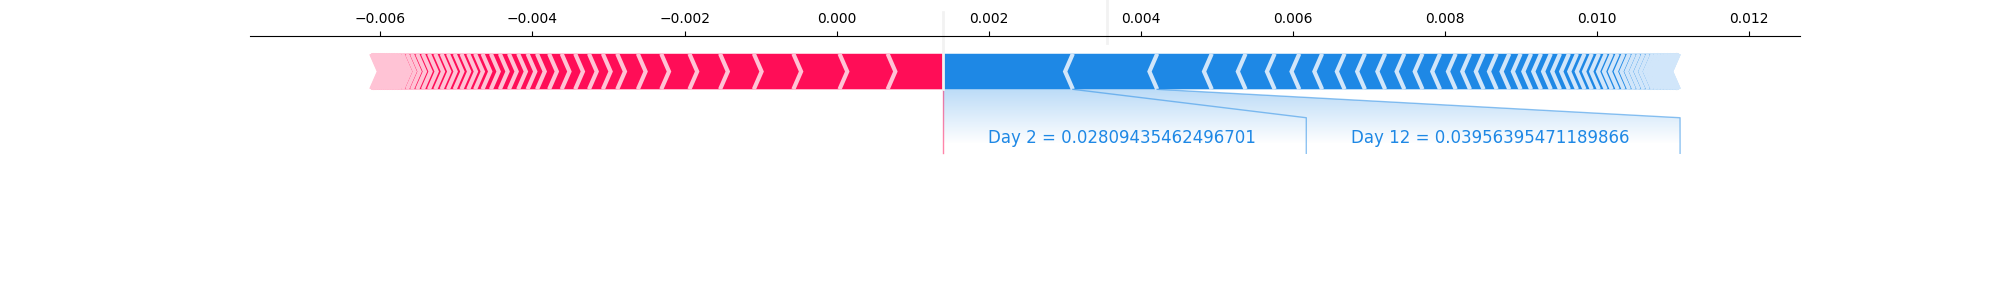
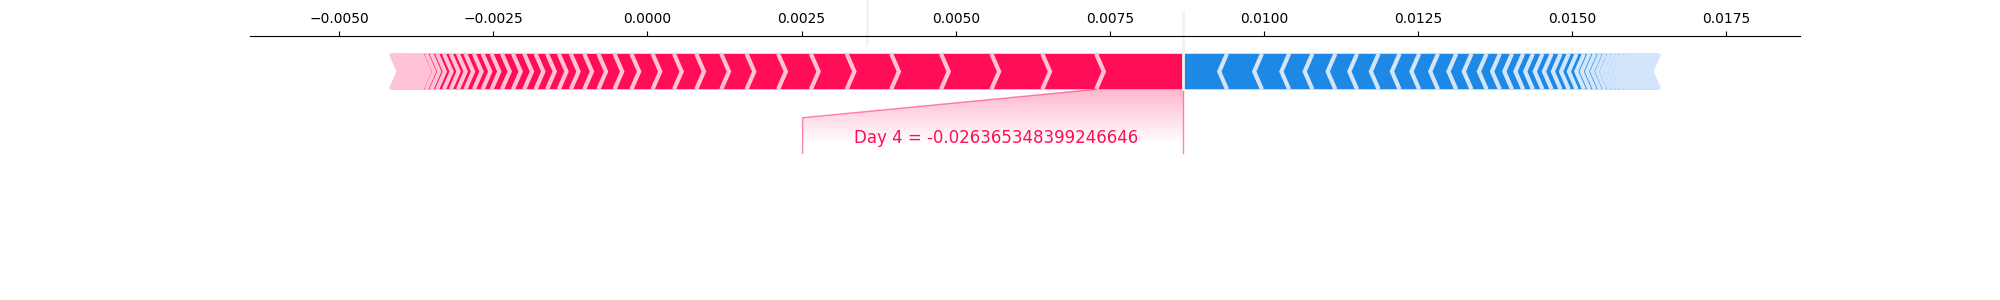
time to wrangle some more with data

diff --git a/predictor/templates/images.html b/predictor/templates/images.html
@@ -1,5 +1,8 @@
 {% load static %}
 <form  method="get" >
-    <img src="{% static 'image/shap.png' %}"/>
+    <img src="{% static 'image/initial.png' %}"/>
+    <img src="{% static 'image/barplot.png' %}"/>
+    <img src="{% static 'image/shap_value.png' %}"/>
+    <img src="{% static 'image/wave_plot.png' %}"/>
     <li><a action='home'>HOME</a></li>
 </form>

diff --git a/predictor/views.py b/predictor/views.py
@@ -63,10 +63,11 @@ def home(request):
 
 
 def visualization(request):
-    print("wtf")
+    # print("wtf")
     path = os.path.join(settings.MODELS,'xgbregression.model')
 
-    if request.method == 'POST':
+    if request.method == 'GET':
+        print('wtf')
         stock = Index.objects.all().last()
         
         requested_stock = yf.Ticker(str(stock))
@@ -78,11 +79,13 @@ def visualization(request):
         stock_changes.drop(stock_changes.index[0],inplace=True)
         stock_matrix = pd.concat([stock_changes.Close.shift(-i) for i in range(100)],axis=1)
         stock_matrix.drop(stock_matrix.index[-99:],inplace=True)
-        stock_matrix.columns = [ f'Day {i+1}'for i in range(len(stock_matrix.columns))]
+        stock_matrix.columns = [ f'Days_{i+1}'for i in range(len(stock_matrix.columns))]
         
-        X = stock_matrix.loc[:,'Day 2':]
-        y = stock_matrix['Day 1']
+        X = stock_matrix.loc[:,'Days_2':]
+        y = stock_matrix['Days_1']
+
         X_train,X_test,y_train,y_test = train_test_split(X,y,test_size=0.2)
+
         dtrain = xgb.DMatrix(X_train,y_train)
         dtest = xgb.DMatrix(X_test,y_test)
 
@@ -98,13 +101,23 @@ def visualization(request):
 
         df_shap_XGB_test = pd.DataFrame(shap_values_XGB_test)
         df_shap_XGB_train = pd.DataFrame(shap_values_XGB_train)
-        shap.force_plot(explainer.expected_value,shap_values_XGB_test[0],X_test.iloc[[0]],show=False,matplotlib=True).savefig(
-    '/home/tony/Desktop/github_repos/inntro/predictor/static/image/shap.png')
+
+        shap.force_plot(explainer.expected_value,shap_values_XGB_test[0],X_test.iloc[[0]],show=False,matplotlib=True).savefig('/home/tony/Desktop/github_repos/inntro/predictor/static/image/initial.png')
+        shap.force_plot(explainer.expected_value,shap_values_XGB_test,X_test).savefig('/home/tony/Desktop/github_repos/inntro/predictor/static/image/wave_plot.png')
+        s_plot = plt.figure()
+        shap.summary_plot(shap_values_XGB_train,X_train,plot_type='bar')
+        s_plot.savefig('/home/tony/Desktop/github_repos/inntro/predictor/static/image/barplot.png')
+       
+        s_plot = plt.figure()
+        shap.summary_plot(shap_values_XGB_train,X_train)
+        s_plot.savefig('/home/tony/Desktop/github_repos/inntro/predictor/static/image/shap_value.png')
+     
+        # shap.dependence_plot('Days_1',shap_values_XGB_train,X_train).savefig('/home/tony/Desktop/github_repos/inntro/predictor/static/image/scatter.png')
         print(prediction)
 
-        return render(request,'image.html')
-
-    return render(request,'images.html')
+        return render(request,'images.html')
+    else:
+        return render(request,'images.html')
 
 
 

diff --git a/mycalendar/urls.py b/mycalendar/urls.py
@@ -24,8 +24,8 @@ from django.views.static import serve
 urlpatterns = [
     url(r'^admin/', admin.site.urls),
     path('',include('predictor.urls')),
-    # url(r'visualization',visualization,name='ho'),
-    url(r'', home,name='visual'),
+    url(r'^visualization/$',visualization,name='visualization'),
+    url(r'', home,name='home'),
 
     path('regression', call_model.as_view()),
 ]
